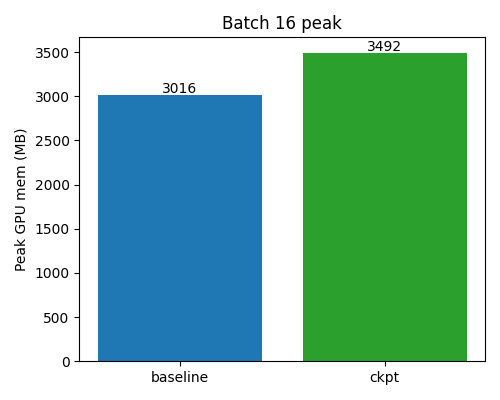
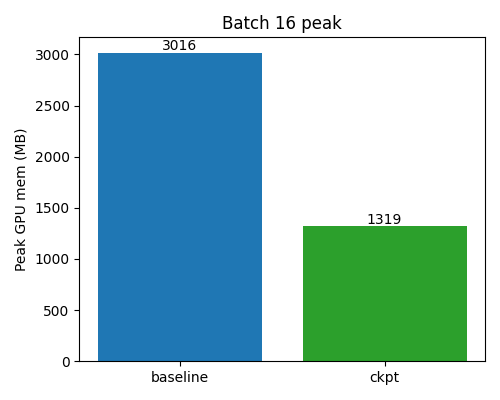
lmao

diff --git a/subgraph.py b/subgraph.py
@@ -73,9 +73,32 @@ def build_base():
     disable_inplace_relu(m)
     return m
 
-def build_ckpt(ranks:set[int]):
-    base=build_base()
-    return checkpoint_by_rank(symbolic_trace(base), ranks)
+# checkpoint every BasicBlock / Bottleneck -------------------------
+class _CPWrapper(torch.nn.Module):
+    """Lightweight wrapper that runs a sub-module under torch.utils.checkpoint."""
+    def __init__(self, mod):
+        super().__init__()
+        self.mod = mod
+
+    def forward(self, *args, **kwargs):  # noqa: D401
+        return checkpoint(self.mod, *args, **kwargs)
+
+
+def _inject_checkpoint(module: torch.nn.Module):
+    """Recursively replace every residual block with a checkpointed wrapper."""
+    for name, child in list(module.named_children()):
+        if isinstance(child, (torchvision.models.resnet.BasicBlock,
+                              torchvision.models.resnet.Bottleneck)):
+            setattr(module, name, _CPWrapper(child))
+        else:
+            _inject_checkpoint(child)
+
+
+def build_ckpt_all():
+    """Return a ResNet-152 where *every* residual block is checkpointed."""
+    m = build_base()
+    _inject_checkpoint(m)
+    return m
 
 # ───────────────── timeline helper (reuse MemoryProfiler) ─────────
 def generate_memory_timeline(model, batch_size: int, device: torch.device, outfile: str):
@@ -105,7 +128,7 @@ def main():
     p_base=peak_mb(base,16,dev)
     del base; torch.cuda.empty_cache()
 
-    ckpt=build_ckpt(ranks).to(dev).train()
+    ckpt=build_ckpt_all().to(dev).train()
     p_ckpt=peak_mb(ckpt,16,dev)
     del ckpt; torch.cuda.empty_cache()
 
@@ -127,7 +150,7 @@ def main():
         mb_base.append(peak_mb(base,bs,dev))
         del base; torch.cuda.empty_cache()
 
-        ckpt=build_ckpt(ranks).to(dev).train()
+        ckpt=build_ckpt_all().to(dev).train()
         mb_ck.append(peak_mb(ckpt,bs,dev))
         del ckpt; torch.cuda.empty_cache()
 
@@ -143,7 +166,7 @@ def main():
     print("Saved both plots.")
 
     # Produce detailed memory timeline for the checkpointed graph (batch-16)
-    ckpt_timeline = build_ckpt(ranks).to(dev).train()
+    ckpt_timeline = build_ckpt_all().to(dev).train()
     generate_memory_timeline(ckpt_timeline, 16, dev, "checkpoint_memory_profile.png")
     del ckpt_timeline; torch.cuda.empty_cache()
 
